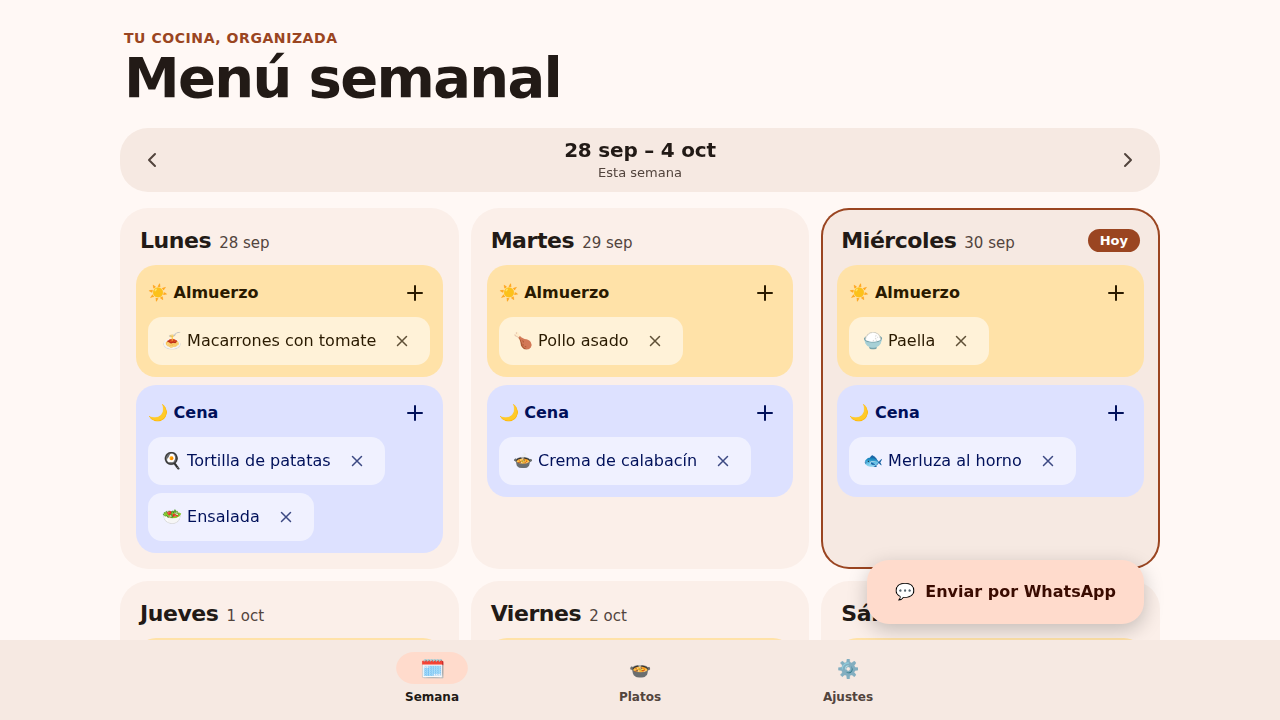
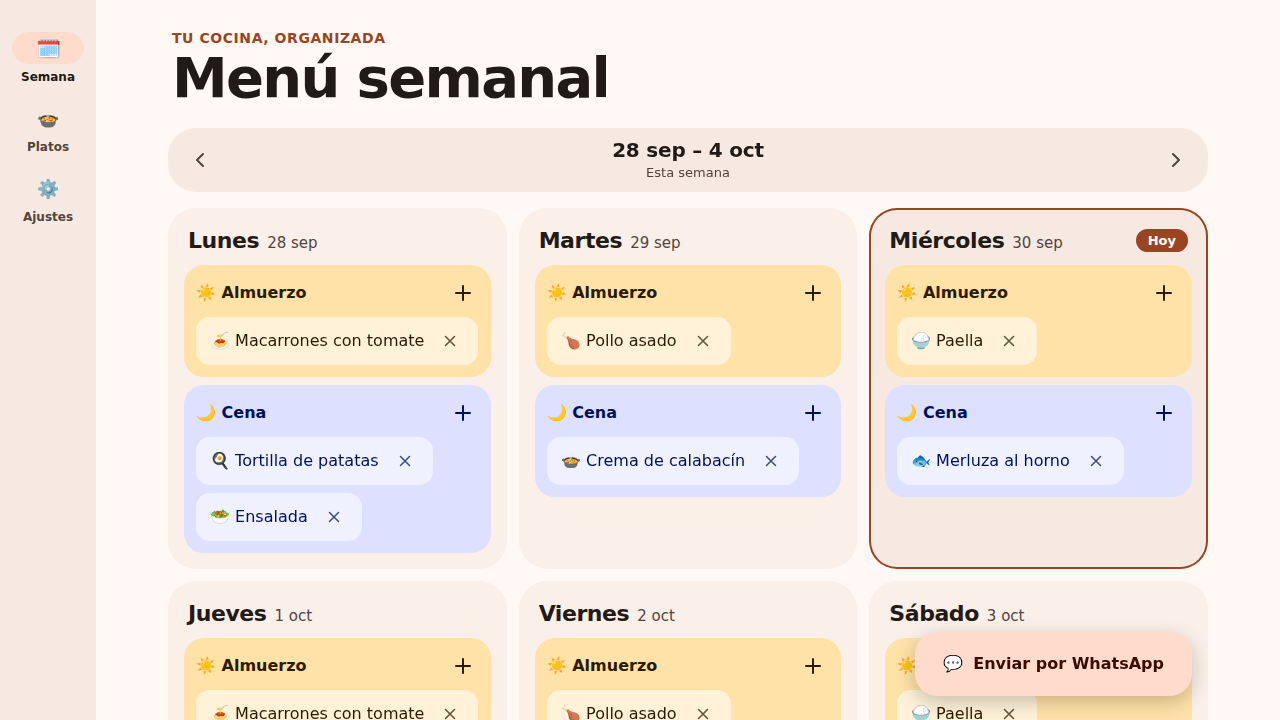
v1.1.0: barra lateral en escritorio, pantallas de arranque iOS y versión visible
- Navegación lateral en ≥1024px (bottom bar en móvil)
- Pantallas de arranque de iOS claras/oscuras (script make-splash)
- Versión única en public/version.js, visible en Ajustes; el zip se llama menu-semanal-v<versión>.zip
- Tests: coherencia de versión y de splash; E2E de barra lateral y versión
- Limpieza de CSS duplicado de .btn.small

Claude-Session: https://claude.ai/code/session_012n9jfVvXChSYQcDDXfrfkB

diff --git a/menu-semanal/public/index.html b/menu-semanal/public/index.html
@@ -16,6 +16,24 @@
   <link rel="manifest" href="manifest.webmanifest">
   <link rel="icon" href="icons/icon.svg" type="image/svg+xml">
   <link rel="apple-touch-icon" href="icons/apple-touch-icon.png">
+  <!-- splash:start (generado por scripts/make-splash.mjs) -->
+  <link rel="apple-touch-startup-image" href="splash/light-1290x2796.png" media="(device-width: 430px) and (device-height: 932px) and (-webkit-device-pixel-ratio: 3) and (orientation: portrait) and (prefers-color-scheme: light)">
+  <link rel="apple-touch-startup-image" href="splash/dark-1290x2796.png" media="(device-width: 430px) and (device-height: 932px) and (-webkit-device-pixel-ratio: 3) and (orientation: portrait) and (prefers-color-scheme: dark)">
+  <link rel="apple-touch-startup-image" href="splash/light-1179x2556.png" media="(device-width: 393px) and (device-height: 852px) and (-webkit-device-pixel-ratio: 3) and (orientation: portrait) and (prefers-color-scheme: light)">
+  <link rel="apple-touch-startup-image" href="splash/dark-1179x2556.png" media="(device-width: 393px) and (device-height: 852px) and (-webkit-device-pixel-ratio: 3) and (orientation: portrait) and (prefers-color-scheme: dark)">
+  <link rel="apple-touch-startup-image" href="splash/light-1170x2532.png" media="(device-width: 390px) and (device-height: 844px) and (-webkit-device-pixel-ratio: 3) and (orientation: portrait) and (prefers-color-scheme: light)">
+  <link rel="apple-touch-startup-image" href="splash/dark-1170x2532.png" media="(device-width: 390px) and (device-height: 844px) and (-webkit-device-pixel-ratio: 3) and (orientation: portrait) and (prefers-color-scheme: dark)">
+  <link rel="apple-touch-startup-image" href="splash/light-1125x2436.png" media="(device-width: 375px) and (device-height: 812px) and (-webkit-device-pixel-ratio: 3) and (orientation: portrait) and (prefers-color-scheme: light)">
+  <link rel="apple-touch-startup-image" href="splash/dark-1125x2436.png" media="(device-width: 375px) and (device-height: 812px) and (-webkit-device-pixel-ratio: 3) and (orientation: portrait) and (prefers-color-scheme: dark)">
+  <link rel="apple-touch-startup-image" href="splash/light-1242x2688.png" media="(device-width: 414px) and (device-height: 896px) and (-webkit-device-pixel-ratio: 3) and (orientation: portrait) and (prefers-color-scheme: light)">
+  <link rel="apple-touch-startup-image" href="splash/dark-1242x2688.png" media="(device-width: 414px) and (device-height: 896px) and (-webkit-device-pixel-ratio: 3) and (orientation: portrait) and (prefers-color-scheme: dark)">
+  <link rel="apple-touch-startup-image" href="splash/light-828x1792.png" media="(device-width: 414px) and (device-height: 896px) and (-webkit-device-pixel-ratio: 2) and (orientation: portrait) and (prefers-color-scheme: light)">
+  <link rel="apple-touch-startup-image" href="splash/dark-828x1792.png" media="(device-width: 414px) and (device-height: 896px) and (-webkit-device-pixel-ratio: 2) and (orientation: portrait) and (prefers-color-scheme: dark)">
+  <link rel="apple-touch-startup-image" href="splash/light-750x1334.png" media="(device-width: 375px) and (device-height: 667px) and (-webkit-device-pixel-ratio: 2) and (orientation: portrait) and (prefers-color-scheme: light)">
+  <link rel="apple-touch-startup-image" href="splash/dark-750x1334.png" media="(device-width: 375px) and (device-height: 667px) and (-webkit-device-pixel-ratio: 2) and (orientation: portrait) and (prefers-color-scheme: dark)">
+  <link rel="apple-touch-startup-image" href="splash/light-1242x2208.png" media="(device-width: 414px) and (device-height: 736px) and (-webkit-device-pixel-ratio: 3) and (orientation: portrait) and (prefers-color-scheme: light)">
+  <link rel="apple-touch-startup-image" href="splash/dark-1242x2208.png" media="(device-width: 414px) and (device-height: 736px) and (-webkit-device-pixel-ratio: 3) and (orientation: portrait) and (prefers-color-scheme: dark)">
+  <!-- splash:end -->
   <link rel="stylesheet" href="styles.css">
   <script type="module" src="app.js"></script>
 </head>

diff --git a/menu-semanal/public/styles.css b/menu-semanal/public/styles.css
@@ -34,6 +34,7 @@
   --font: 'Google Sans Flex', 'Google Sans', 'Roboto Flex', system-ui, -apple-system, 'Segoe UI', Roboto, sans-serif;
   --safe-b: env(safe-area-inset-bottom, 0px);
   --nav-h: 5rem; /* escala con el tamaño de texto del usuario */
+  --rail-w: 0px;
 }
 :root[data-theme='light'] { color-scheme: light; }
 :root[data-theme='dark'] { color-scheme: dark; }
@@ -87,9 +88,8 @@ main { outline: none; }
 .btn.text { background: transparent; color: var(--primary); padding: 0 16px; }
 .btn.danger { background: var(--error-container); color: var(--on-error-container); }
 .btn[disabled] { opacity: 0.45; pointer-events: none; }
-.btn.small { padding: 0 16px; }
 .btn { padding-block: 10px; }
-.btn.text, .btn.small { padding-block: 10px; }
+.btn.small { padding-inline: 16px; }
 
 .icon-btn {
   display: inline-grid; place-items: center; width: 48px; height: 48px; border: 0; border-radius: 50%;
@@ -102,7 +102,7 @@ main { outline: none; }
 .icon { width: 24px; height: 24px; fill: none; stroke: currentColor; stroke-width: 2; stroke-linecap: round; stroke-linejoin: round; }
 
 .fab {
-  position: fixed; z-index: 20; right: max(16px, env(safe-area-inset-right), calc((100% - 1040px) / 2 + 16px));
+  position: fixed; z-index: 20; right: max(16px, env(safe-area-inset-right), calc((100% - var(--rail-w) - 1040px) / 2 + 16px));
   bottom: calc(var(--nav-h) + var(--safe-b) + 16px);
   display: inline-flex; align-items: center; gap: 10px; min-height: 64px; padding: 0 28px;
   border: 0; border-radius: 22px; font-weight: 700; font-size: 1rem;
@@ -203,6 +203,7 @@ button.row[aria-disabled='true'] { opacity: 0.55; cursor: default; }
 .card h2 { font-size: 1.25rem; font-weight: 700; }
 .card p { color: var(--on-surface-variant); }
 .card .actions { display: flex; flex-wrap: wrap; gap: 8px; }
+.version { text-align: center; font-size: 0.8125rem; color: var(--on-surface-variant); padding: 8px 0 16px; }
 .empty { padding: 32px 16px; text-align: center; color: var(--on-surface-variant); }
 .empty .big { font-size: 3rem; display: block; }
 
@@ -291,4 +292,17 @@ dialog.sheet { width: 100%; max-width: 640px; margin: auto auto 0; border-radius
   .seg input:checked + span { forced-color-adjust: none; background: Highlight; color: HighlightText; }
   .nav-item[aria-current='page'] .pill, .day.today { outline: 2px solid Highlight; }
   .badge, .fab, .btn { border: 1px solid ButtonText; }
+}
+
+/* ---------- Escritorio: la navegación pasa a barra lateral ---------- */
+@media (min-width: 1024px) {
+  :root { --rail-w: 96px; }
+  body { padding-bottom: 32px; padding-left: calc(var(--rail-w) + 16px); }
+  .navbar {
+    top: 0; right: auto; bottom: 0; width: var(--rail-w); height: 100dvh;
+    flex-direction: column; justify-content: flex-start; align-items: center; gap: 16px;
+    padding: 32px 8px;
+  }
+  .nav-item { flex: none; display: grid; width: 100%; }
+  .fab, .snack { bottom: 24px; }
 }

diff --git a/menu-semanal/public/app.js b/menu-semanal/public/app.js
@@ -5,6 +5,7 @@ import {
   removeFromSlot, sanitizeState, shortDate, slotIds, suggest, todayISO, updateDish, upsertDishByName,
   weekDays, weekRangeLabel, weekStart,
 } from './lib.js';
+import { VERSION } from './version.js';
 
 /* ---------- Utilidades DOM ---------- */
 
@@ -558,6 +559,7 @@ function renderSettings() {
       h('h2', {}, 'Zona delicada'),
       h('div', { class: 'actions' }, h('button', { class: 'btn danger', type: 'button', onclick: resetAll }, 'Borrar todos los datos')),
     ),
+    h('p', { class: 'version' }, `Menú semanal · versión ${VERSION}`),
   );
 }
 

diff --git a/menu-semanal/public/sw.js b/menu-semanal/public/sw.js
@@ -3,7 +3,7 @@
 // Así los cambios publicados llegan solos y no hay que subir versiones a mano.
 
 const CACHE = 'menu-semanal-v1';
-const CORE = ['./', 'index.html', 'styles.css', 'app.js', 'lib.js', 'manifest.webmanifest', 'icons/icon.svg'];
+const CORE = ['./', 'index.html', 'styles.css', 'app.js', 'lib.js', 'version.js', 'manifest.webmanifest', 'icons/icon.svg'];
 const OPTIONAL = ['icons/icon-192.png', 'icons/icon-512.png', 'icons/apple-touch-icon.png'];
 
 self.addEventListener('install', (event) => {

diff --git a/menu-semanal/public/version.js b/menu-semanal/public/version.js
@@ -1,0 +1,3 @@
+// Única fuente de la versión: se muestra en Ajustes y nombra el zip (npm run zip).
+// Al publicar cambios, súbela aquí y en package.json (lo comprueba `npm test`).
+export const VERSION = '1.1.0';

diff --git a/menu-semanal/scripts/make-zip.py b/menu-semanal/scripts/make-zip.py
@@ -1,9 +1,15 @@
-"""Empaqueta public/ en dist/menu-semanal-netlify.zip (index.html en la raíz) para Netlify Drop."""
-import os, zipfile
-root = os.path.join(os.path.dirname(__file__), '..')
+"""Empaqueta public/ en dist/menu-semanal-v<versión>.zip (index.html en la raíz) para Netlify Drop.
+La versión sale de public/version.js."""
+import glob, os, re, zipfile
+
+root = os.path.join(os.path.dirname(os.path.abspath(__file__)), '..')
 src = os.path.join(root, 'public')
-out = os.path.join(root, 'dist', 'menu-semanal-netlify.zip')
-os.makedirs(os.path.dirname(out), exist_ok=True)
+version = re.search(r"VERSION\s*=\s*'([^']+)'", open(os.path.join(src, 'version.js'), encoding='utf-8').read()).group(1)
+dist = os.path.join(root, 'dist')
+os.makedirs(dist, exist_ok=True)
+for old in glob.glob(os.path.join(dist, '*.zip')):
+    os.remove(old)  # un solo zip vigente, sin versiones antiguas que confundan
+out = os.path.join(dist, f'menu-semanal-v{version}.zip')
 with zipfile.ZipFile(out, 'w', zipfile.ZIP_DEFLATED) as z:
     for base, _, files in os.walk(src):
         for f in sorted(files):

diff --git a/menu-semanal/README.md b/menu-semanal/README.md
@@ -44,13 +44,14 @@ menu-semanal/
 │   ├── lib.js         (lógica pura: fechas, sugerencias, WhatsApp, validación)
 │   ├── sw.js, manifest.webmanifest, _headers, icons/
 ├── test/              (unitarias con node:test + E2E con Playwright)
+├── dist/              (menu-semanal-v<versión>.zip listo para Netlify Drop)
 ├── scripts/make-icons.mjs
 └── netlify.toml       (publish = "public")
 ```
 
 ## Desplegar en Netlify
 
-**Opción A, Netlify Drop (la más rápida, también desde el móvil):** descarga `dist/menu-semanal-netlify.zip` y súbelo en Netlify → *Add new site* → *Deploy manually* (o arrástralo). Si cambias algo en `public/`, regenera el zip con `npm run zip`. También vale arrastrar la carpeta `public/`.
+**Opción A, Netlify Drop (la más rápida, también desde el móvil):** descarga `dist/menu-semanal-v<versión>.zip` y súbelo en Netlify → *Add new site* → *Deploy manually* (o arrástralo). Si cambias algo en `public/`, regenera el zip con `npm run zip`. También vale arrastrar la carpeta `public/`.
 
 **Opción B, desde Git:** *Add new site* → *Import from Git*, y en la configuración:
 
@@ -68,8 +69,18 @@ npx --yes serve public        # servir en local (http://localhost:3000)
 npm install && npm run e2e    # prueba E2E en Chromium (instala Playwright)
 node scripts/make-icons.mjs   # regenerar los PNG desde icons/icon.svg
 node scripts/make-screenshots.mjs   # regenerar las capturas del manifest
-npm run zip                   # regenerar dist/menu-semanal-netlify.zip
+node scripts/make-splash.mjs  # regenerar las pantallas de arranque de iOS
+npm run zip                   # regenerar dist/menu-semanal-v<versión>.zip
 ```
+
+## Versiones
+
+La versión vive en `public/version.js` (se muestra en **Ajustes**) y en `package.json`; `npm test` falla si difieren. Para publicar una nueva: súbela en ambos sitios (`1.1.0` → `1.1.1` para arreglos, `1.2.0` para novedades), ejecuta `npm test` y `npm run zip`. El zip resultante se llama `menu-semanal-v<versión>.zip` y sustituye al anterior en `dist/`.
+
+| Versión | Cambios |
+|---|---|
+| 1.1.0 | Auditoría responsive/PWA: palabras largas sin desbordes, alto contraste, landscape, safe areas, texto grande, barra lateral en escritorio, pantallas de arranque iOS, rutas por hash |
+| 1.0.0 | Primera versión |
 
 ## Notas
 
